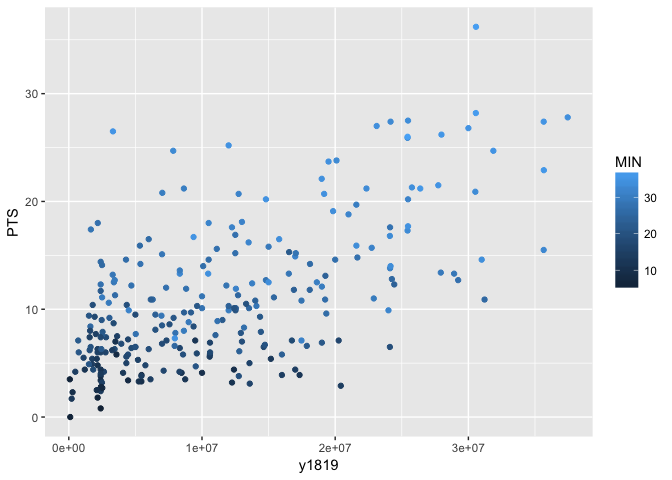
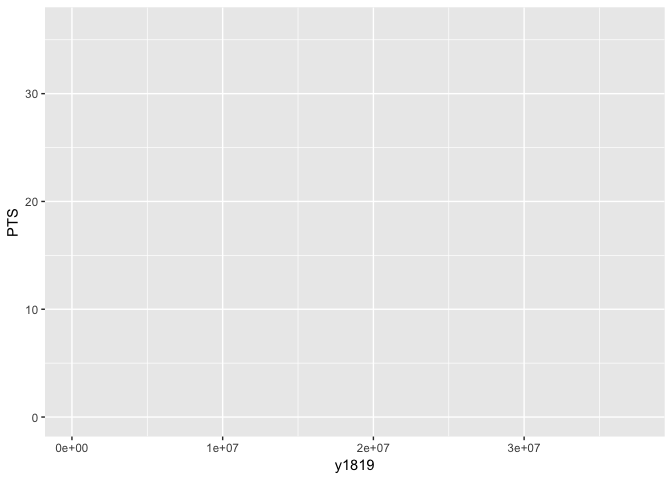
test2

diff --git a/README.md b/README.md
@@ -111,9 +111,8 @@ require(ggplot2)
     ## Loading required package: ggplot2
 
 ``` r
-p <- ggplot(data = data1819, aes(x = y1819, y = PTS, colour = MIN)) +
-  geom_point()
-p + scale_x_continuous(labels = comma) + xlab("2018-2019 Salary") + ylab("Points") + ggtitle("2018-2019 Season: Points Plotted Against Salary") + scale_color_gradient(low="red", high="green")
+p <- ggplot(data = data1819, aes(x = y1819, y = PTS, colour = MIN))
+p + scale_x_continuous(labels = comma) + xlab("2018-2019 Salary") + ylab("Points") + ggtitle("2018-2019 Season: Points Plotted Against Salary") + scale_color_gradient(low="red", high="green") + geom_point()
 ```
 
 ![](Sports_Analytics_files/figure-markdown_github/unnamed-chunk-6-1.png)
